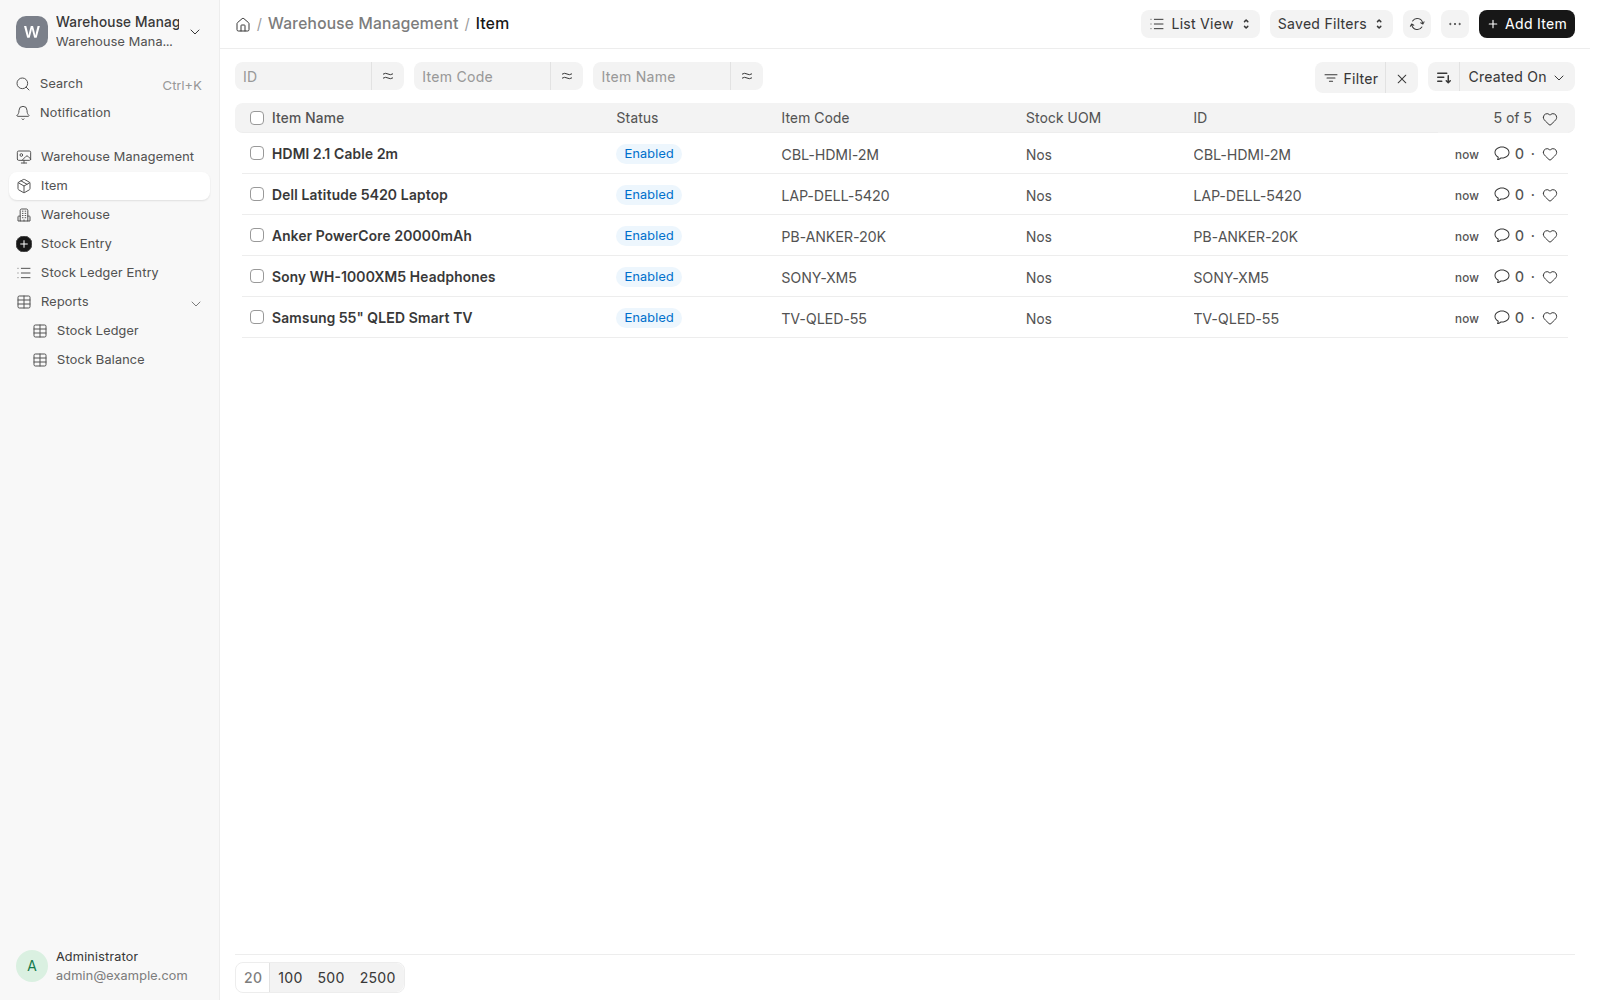
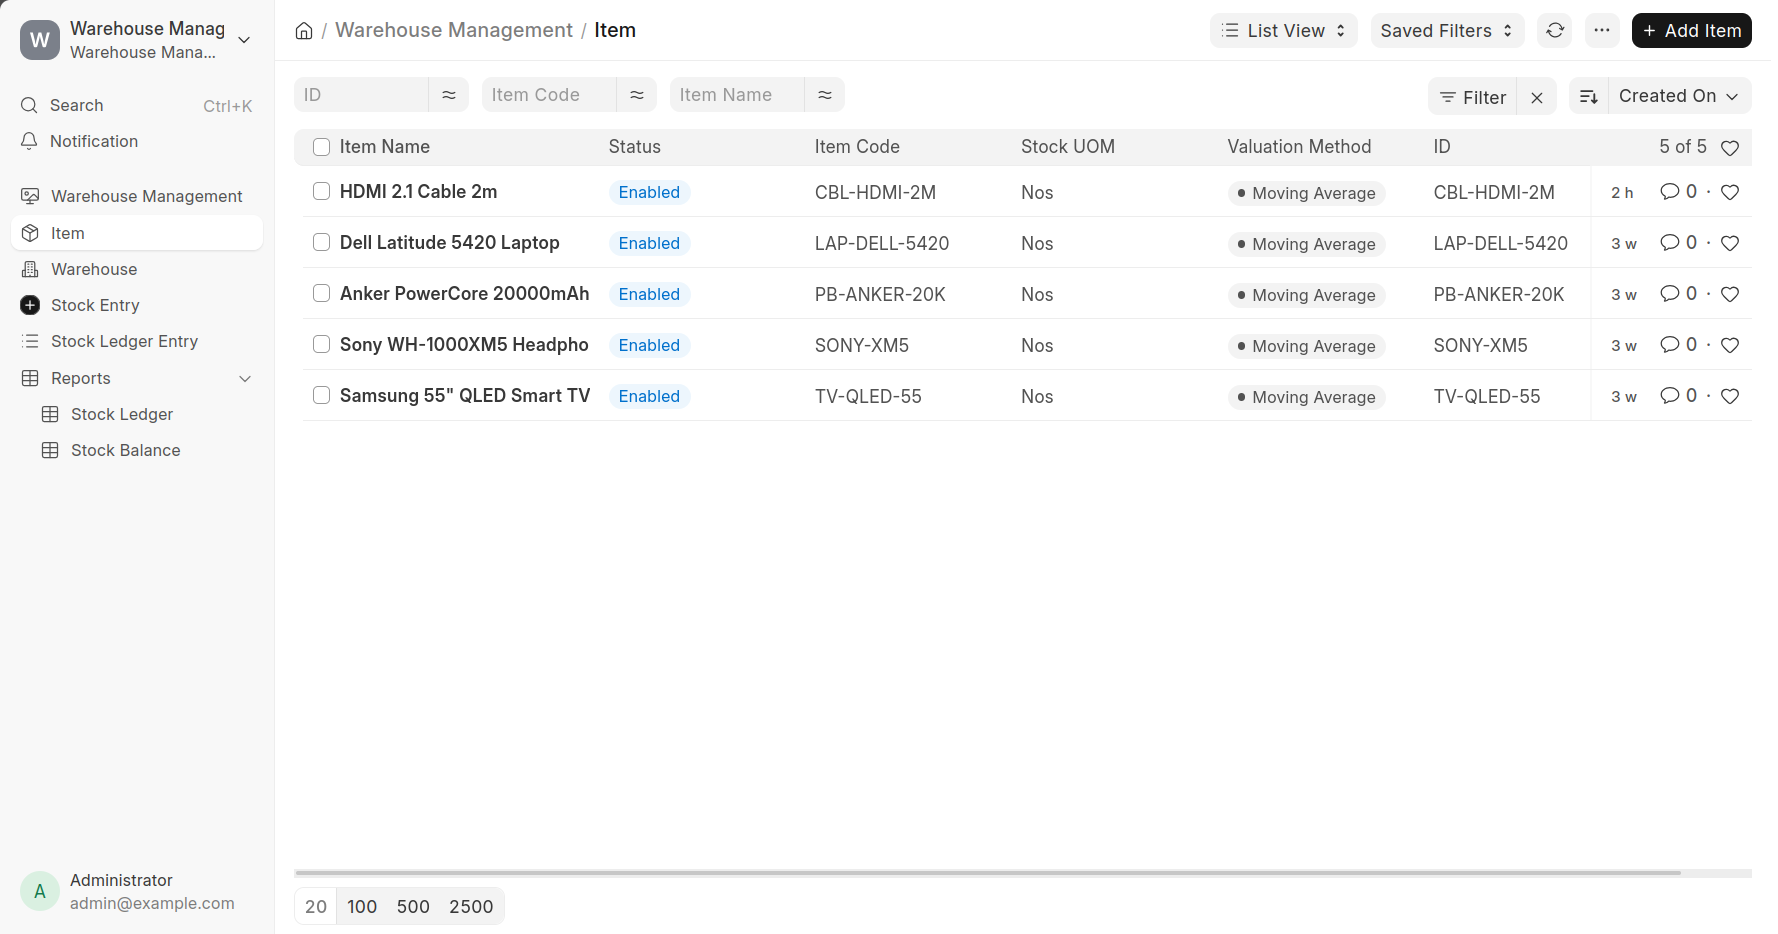
docs: retake the screenshots the valuation work changed
Item list now carries a Valuation Method column, and consolidated Stock
Balance shows PB-ANKER-20K at KES 2,565.45 over 275 units rather than
the KES 2,556.25 the old averaging produced.

Both are cropped to the app viewport to match the existing set. The
other eight were checked against live output and left alone: the Stock
Ledger report agrees row for row, and per-warehouse Stock Balance is
unchanged because only consolidation was wrong.

diff --git a/README.md b/README.md
@@ -34,6 +34,9 @@ far more often than it gets written to.
 
 ![Item list](docs/screenshots/item-list.png)
 
+Valuation Method is the one field on Item worth pointing at. It decides how that
+item is costed, and the section below covers what each setting changes.
+
 Warehouses are a real tree, not a flat list with a parent field bolted on. Group
 nodes (cities, regions) organise the stock-holding leaves under them.
 
